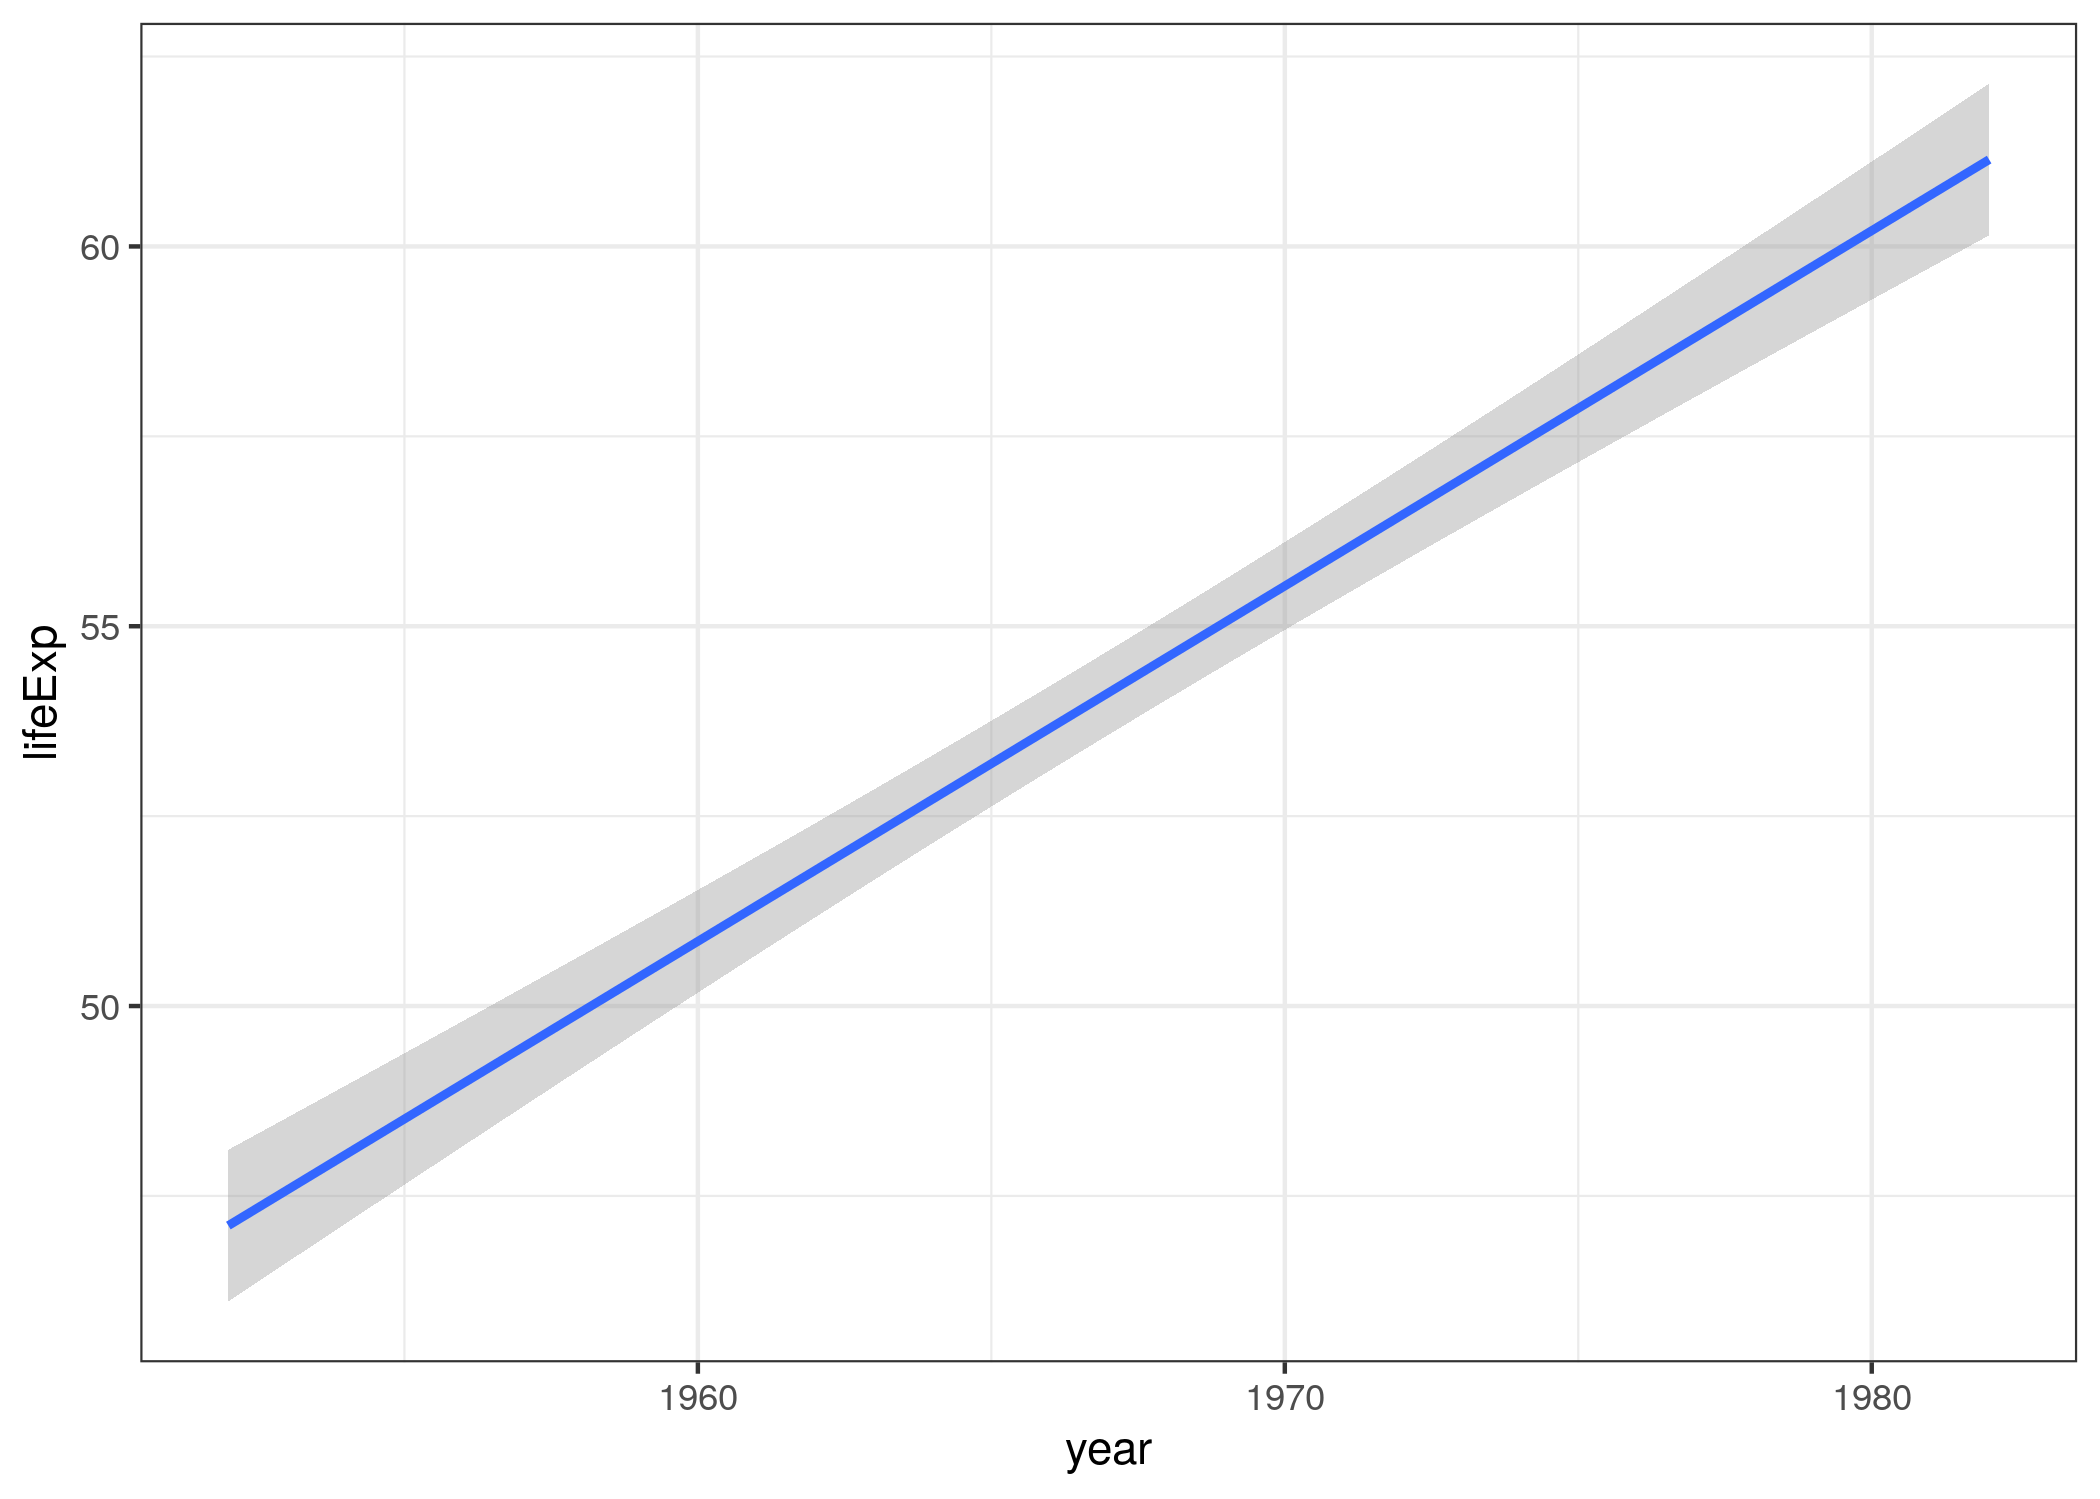
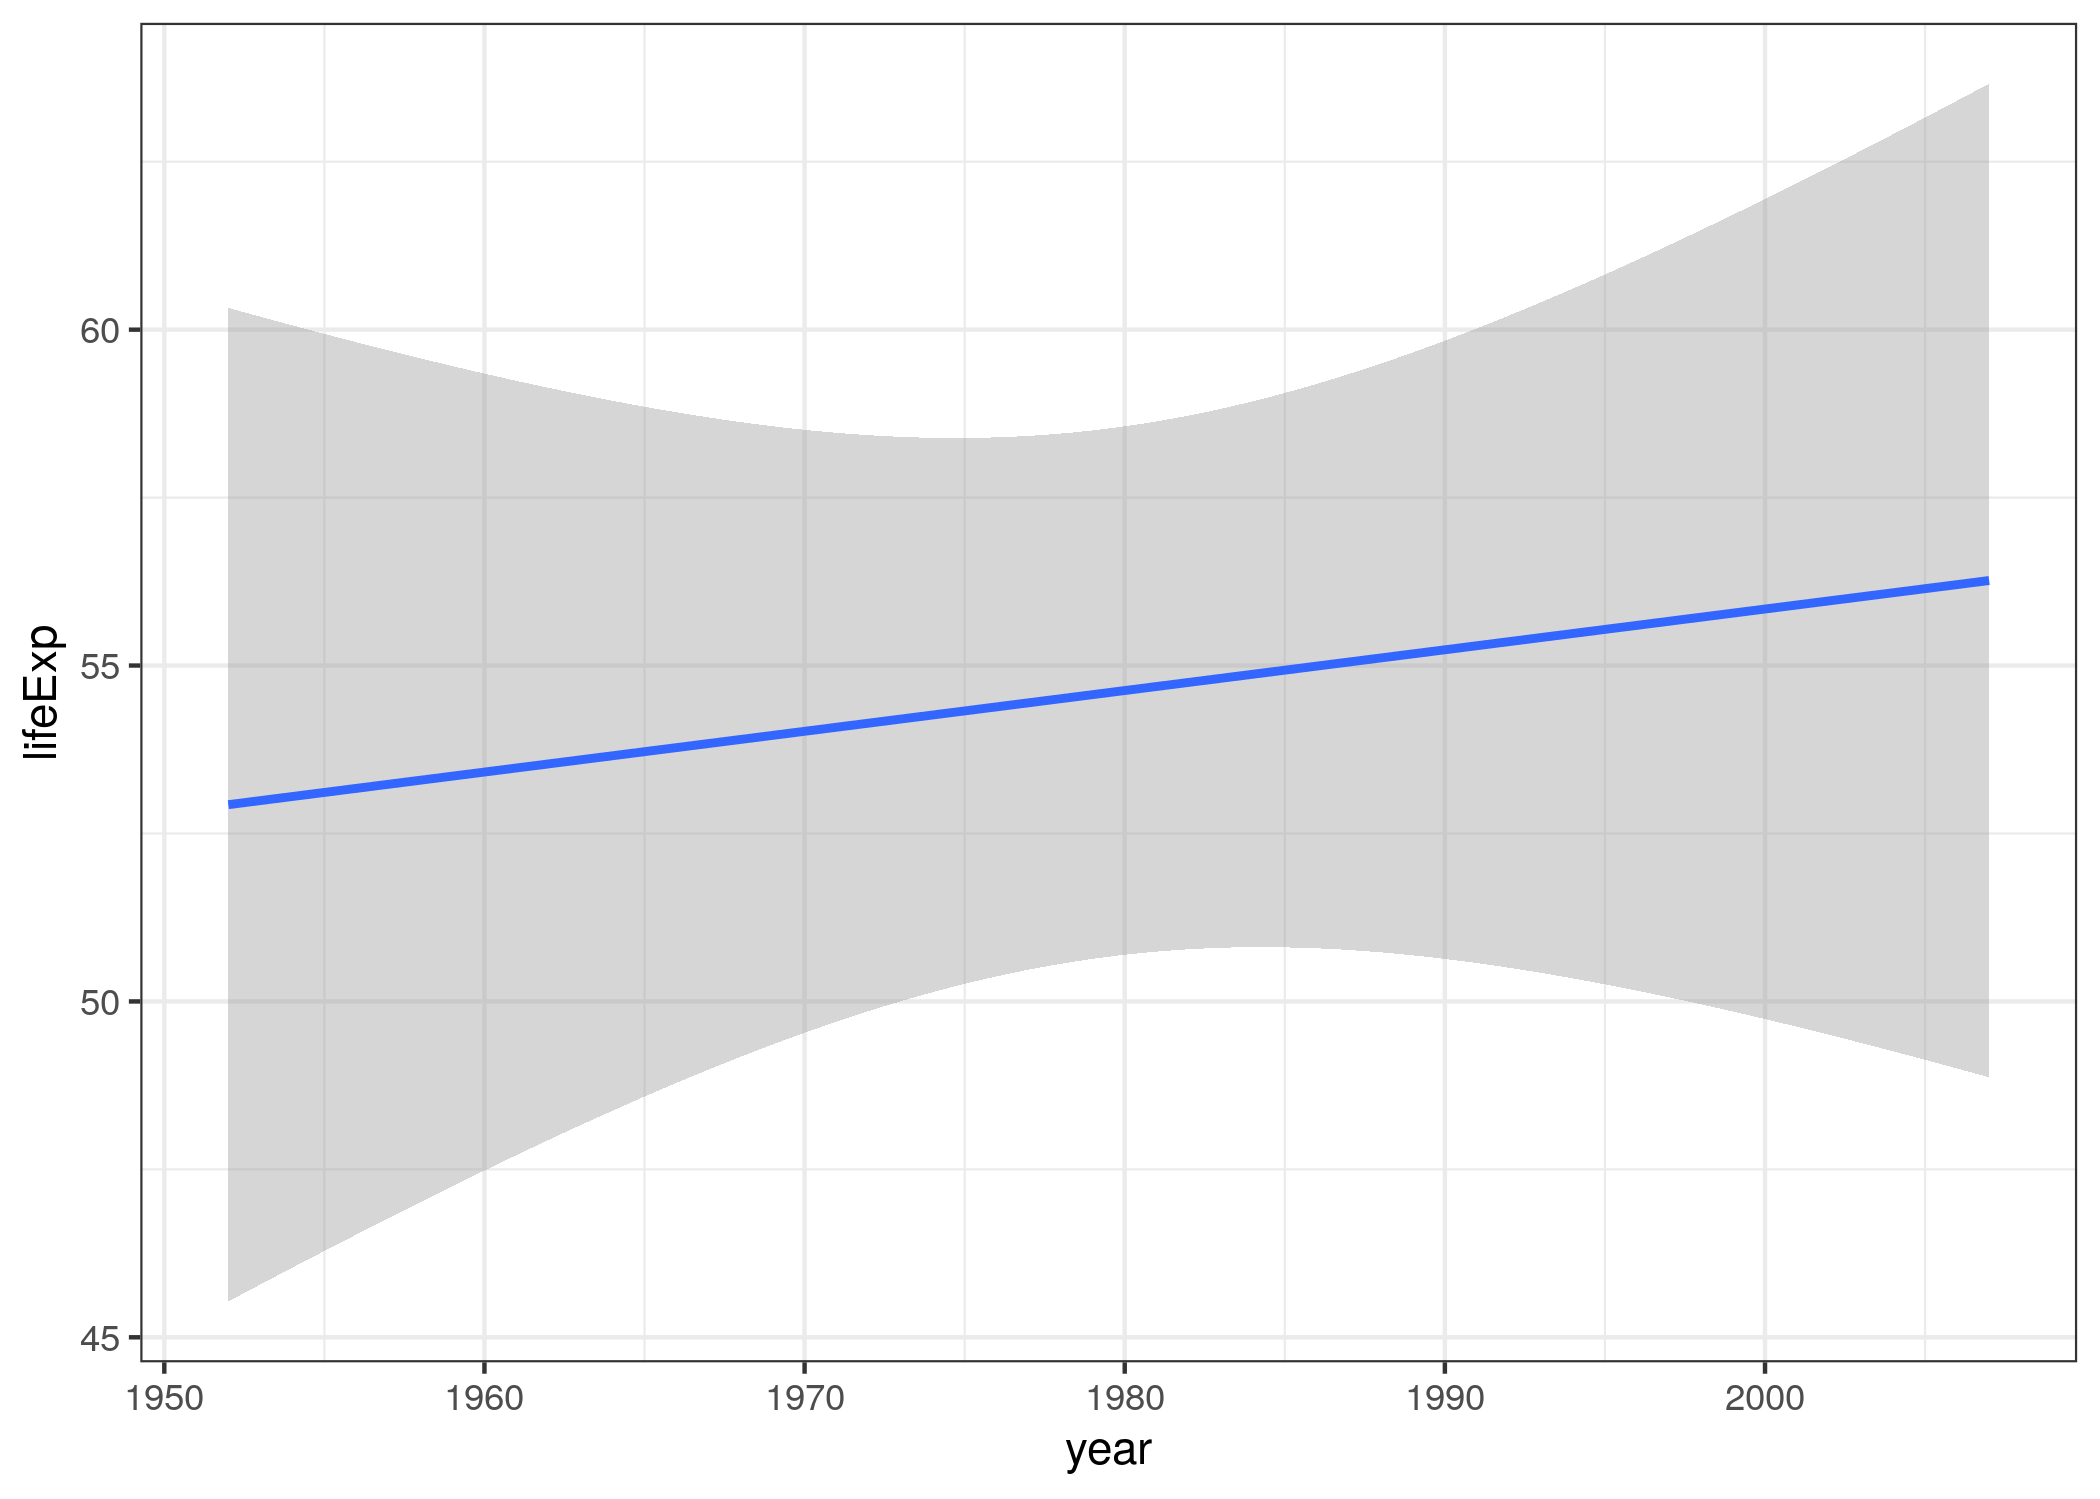
Files

diff --git a/R/05_car_you.md b/R/05_car_you.md
@@ -171,18 +171,18 @@ nested <- picked %>%
 nested
 #> # A tibble: 142 x 2
 #> # Groups:   country [142]
-#>    country                  data            
-#>    <chr>                    <list>          
-#>  1 Algeria                  <tibble [7 × 5]>
-#>  2 Angola                   <tibble [7 × 5]>
-#>  3 Benin                    <tibble [7 × 5]>
-#>  4 Botswana                 <tibble [7 × 5]>
-#>  5 Burkina Faso             <tibble [7 × 5]>
-#>  6 Burundi                  <tibble [7 × 5]>
-#>  7 Cameroon                 <tibble [7 × 5]>
-#>  8 Central African Republic <tibble [7 × 5]>
-#>  9 Chad                     <tibble [7 × 5]>
-#> 10 Comoros                  <tibble [7 × 5]>
+#>    country                  data             
+#>    <chr>                    <list>           
+#>  1 Algeria                  <tibble [12 × 5]>
+#>  2 Angola                   <tibble [12 × 5]>
+#>  3 Benin                    <tibble [12 × 5]>
+#>  4 Botswana                 <tibble [12 × 5]>
+#>  5 Burkina Faso             <tibble [12 × 5]>
+#>  6 Burundi                  <tibble [12 × 5]>
+#>  7 Cameroon                 <tibble [12 × 5]>
+#>  8 Central African Republic <tibble [12 × 5]>
+#>  9 Chad                     <tibble [12 × 5]>
+#> 10 Comoros                  <tibble [12 × 5]>
 #> # … with 132 more rows
 ```
 
@@ -198,18 +198,18 @@ mods <- nested %>%
 mods
 #> # A tibble: 142 x 3
 #> # Groups:   country [142]
-#>    country                  data             mod   
-#>    <chr>                    <list>           <list>
-#>  1 Algeria                  <tibble [7 × 5]> <lm>  
-#>  2 Angola                   <tibble [7 × 5]> <lm>  
-#>  3 Benin                    <tibble [7 × 5]> <lm>  
-#>  4 Botswana                 <tibble [7 × 5]> <lm>  
-#>  5 Burkina Faso             <tibble [7 × 5]> <lm>  
-#>  6 Burundi                  <tibble [7 × 5]> <lm>  
-#>  7 Cameroon                 <tibble [7 × 5]> <lm>  
-#>  8 Central African Republic <tibble [7 × 5]> <lm>  
-#>  9 Chad                     <tibble [7 × 5]> <lm>  
-#> 10 Comoros                  <tibble [7 × 5]> <lm>  
+#>    country                  data              mod   
+#>    <chr>                    <list>            <list>
+#>  1 Algeria                  <tibble [12 × 5]> <lm>  
+#>  2 Angola                   <tibble [12 × 5]> <lm>  
+#>  3 Benin                    <tibble [12 × 5]> <lm>  
+#>  4 Botswana                 <tibble [12 × 5]> <lm>  
+#>  5 Burkina Faso             <tibble [12 × 5]> <lm>  
+#>  6 Burundi                  <tibble [12 × 5]> <lm>  
+#>  7 Cameroon                 <tibble [12 × 5]> <lm>  
+#>  8 Central African Republic <tibble [12 × 5]> <lm>  
+#>  9 Chad                     <tibble [12 × 5]> <lm>  
+#> 10 Comoros                  <tibble [12 × 5]> <lm>  
 #> # … with 132 more rows
 ```
 
@@ -227,18 +227,18 @@ mods %>%
   unnest(params)
 #> # A tibble: 284 x 6
 #> # Groups:   country [142]
-#>    country      term         estimate std.error statistic      p.value
-#>    <chr>        <chr>           <dbl>     <dbl>     <dbl>        <dbl>
-#>  1 Algeria      (Intercept) -1153.     30.2         -38.2 0.000000231 
-#>  2 Algeria      year            0.612   0.0153       39.9 0.000000186 
-#>  3 Angola       (Intercept)  -648.     41.9         -15.5 0.0000206   
-#>  4 Angola       year            0.348   0.0213       16.3 0.0000158   
-#>  5 Benin        (Intercept)  -800.     13.0         -61.6 0.0000000213
-#>  6 Benin        year            0.429   0.00660      65.1 0.0000000162
-#>  7 Botswana     (Intercept)  -866.     42.4         -20.4 0.00000519  
-#>  8 Botswana     year            0.468   0.0215       21.7 0.00000385  
-#>  9 Burkina Faso (Intercept) -1037.     26.7         -38.9 0.000000212 
-#> 10 Burkina Faso year            0.548   0.0136       40.4 0.000000175 
+#>    country      term          estimate std.error statistic  p.value
+#>    <chr>        <chr>            <dbl>     <dbl>     <dbl>    <dbl>
+#>  1 Algeria      (Intercept) -1068.       43.8      -24.4   3.07e-10
+#>  2 Algeria      year            0.569     0.0221    25.7   1.81e-10
+#>  3 Angola       (Intercept)  -377.       46.6       -8.08  1.08e- 5
+#>  4 Angola       year            0.209     0.0235     8.90  4.59e- 6
+#>  5 Benin        (Intercept)  -613.       38.9      -15.8   2.18e- 8
+#>  6 Benin        year            0.334     0.0196    17.0   1.04e- 8
+#>  7 Botswana     (Intercept)   -65.5     202.        -0.324 7.53e- 1
+#>  8 Botswana     year            0.0607    0.102      0.593 5.66e- 1
+#>  9 Burkina Faso (Intercept)  -676.       67.8       -9.97  1.63e- 6
+#> 10 Burkina Faso year            0.364     0.0342    10.6   9.05e- 7
 #> # … with 274 more rows
 ```
 
@@ -341,7 +341,7 @@ list(country, rsq) %>% map(head)
 #> [6] "Burundi"     
 #> 
 #> [[2]]
-#> [1] 0.9968754 0.9815419 0.9988206 0.9895038 0.9969444 0.9912364
+#> [1] 0.9851172 0.8878146 0.9666020 0.0340234 0.9187105 0.7659960
 
 # dplyr: Data frame approach
 country_rsq <- mods2 %>% summarise(rsq = summary(mod)$r.squared)
